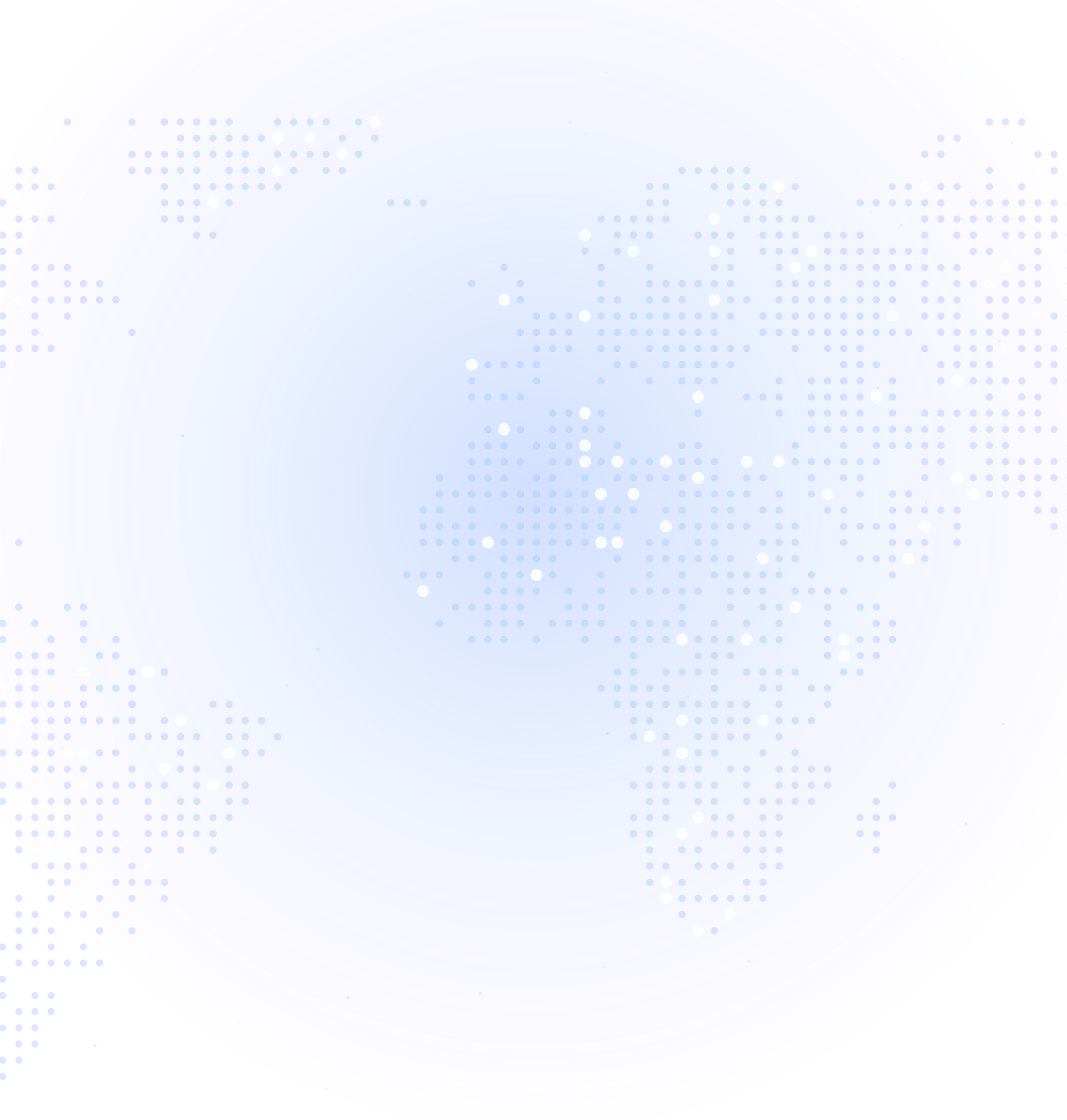
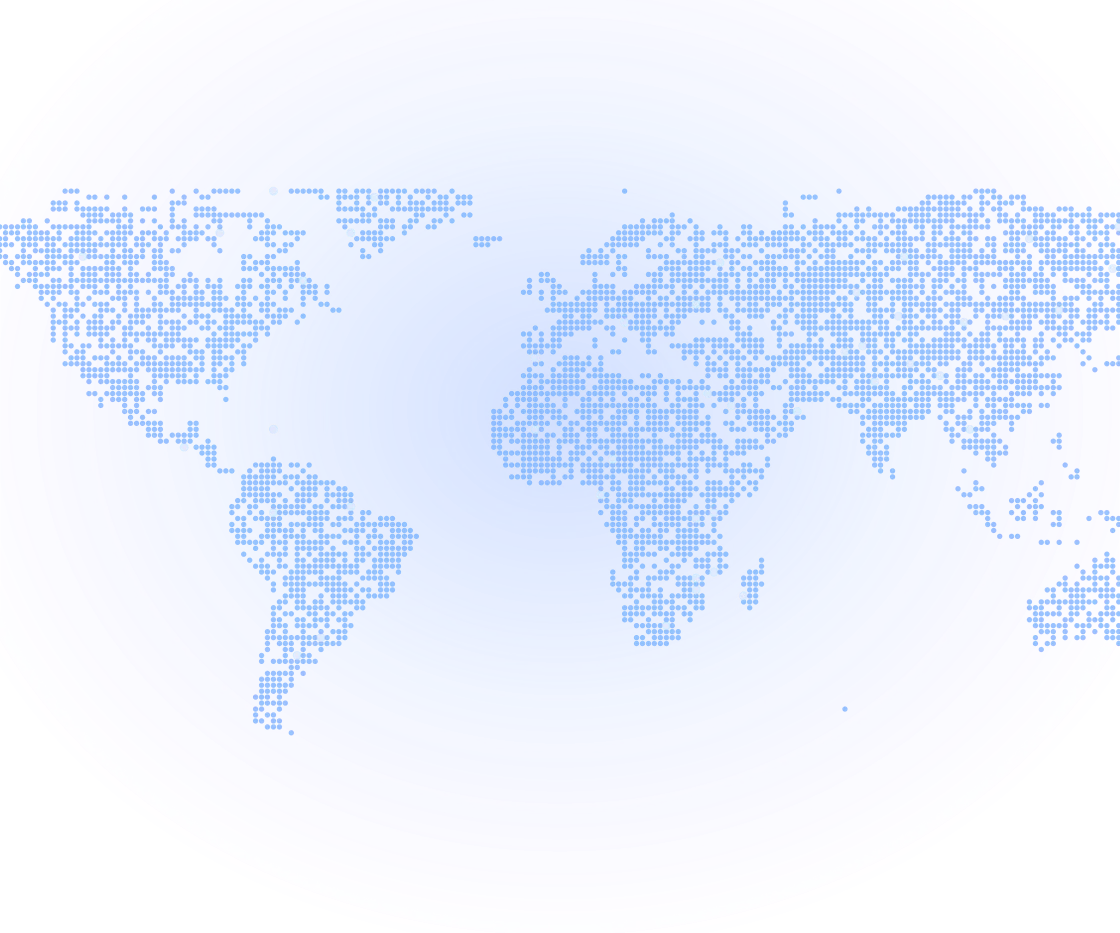
Draw the founder field as a world map you can read, and widen the descriptor
The correction the founder asked for, against the approved Option 4 reference.

What the previous cut got wrong, compared side by side: the map was zoomed far
enough in that no continent was recognisable, the dots were large and coarsely
spaced, and enough of them were pure white that the whole thing read as a star
field. The reference is the opposite on every count — the whole world in frame,
a fine even halftone, and blue.

Four things changed, all of them in the artwork.

It is composed for the card Chromium actually renders, which is not the one the
stylesheet describes. `.portraitFrame` has a 300px max-width, but the stage
centres its grid items instead of stretching them, so the portrait settles at
208-239px and the card at 350x291 on a phone and 460x307 on a desktop. The
frames were drawn for an assumed 460x366 and 342x358, and object-fit:cover had
been quietly eating a fifth of the phone frame's height to reconcile the two.
That crop was half of why the map looked like fragments.

The whole world is in frame. The fit extent runs about 1.35x past the canvas
horizontally, which trims empty mid-Pacific so the drawn band fills the card's
height rather than floating in it, and its vertical centre is offset because
the land bounding box includes an Antarctica this map does not draw. The
Americas now sit left of the portrait, Europe and Africa behind it, Asia and
Australia right.

The dots are fine and dense — 1.15 degrees rather than 1.7 — and sized against
[…]

diff --git a/site/pages/about.html b/site/pages/about.html
@@ -24,7 +24,7 @@
       <div class="identity">
         <p class="identity__name">Fredrick Mendez, MBA</p>
         <p class="identity__role">Founder &amp; Research Architect</p>
-        <p class="identity__desc">Technology Executive, AI Strategist &amp; Emerging Technology Innovator</p>
+        <p class="identity__desc">Technology Executive, AI Strategist, Global Development Researcher &amp; Emerging Technology Innovator</p>
       </div>
     </div>
 

diff --git a/frontend/lib/site.ts b/frontend/lib/site.ts
@@ -11,7 +11,7 @@ export const site = {
     name: "Fredrick Mendez",
     credential: "Fredrick Mendez, MBA",
     role: "Founder & Research Architect",
-    descriptor: "Technology Executive, AI Strategist & Emerging Technology Innovator",
+    descriptor: "Technology Executive, AI Strategist, Global Development Researcher & Emerging Technology Innovator",
     url: "https://novraintelligence.com/about/#fredrick-mendez",
   },
   nav: [

diff --git a/frontend/app/about/page.module.css b/frontend/app/about/page.module.css
@@ -26,7 +26,7 @@
   position: absolute;
   inset: 0;
   z-index: 0;
-  opacity: 0.74;
+  opacity: 0.80;
 }
 
 .mapField :global(img) {
